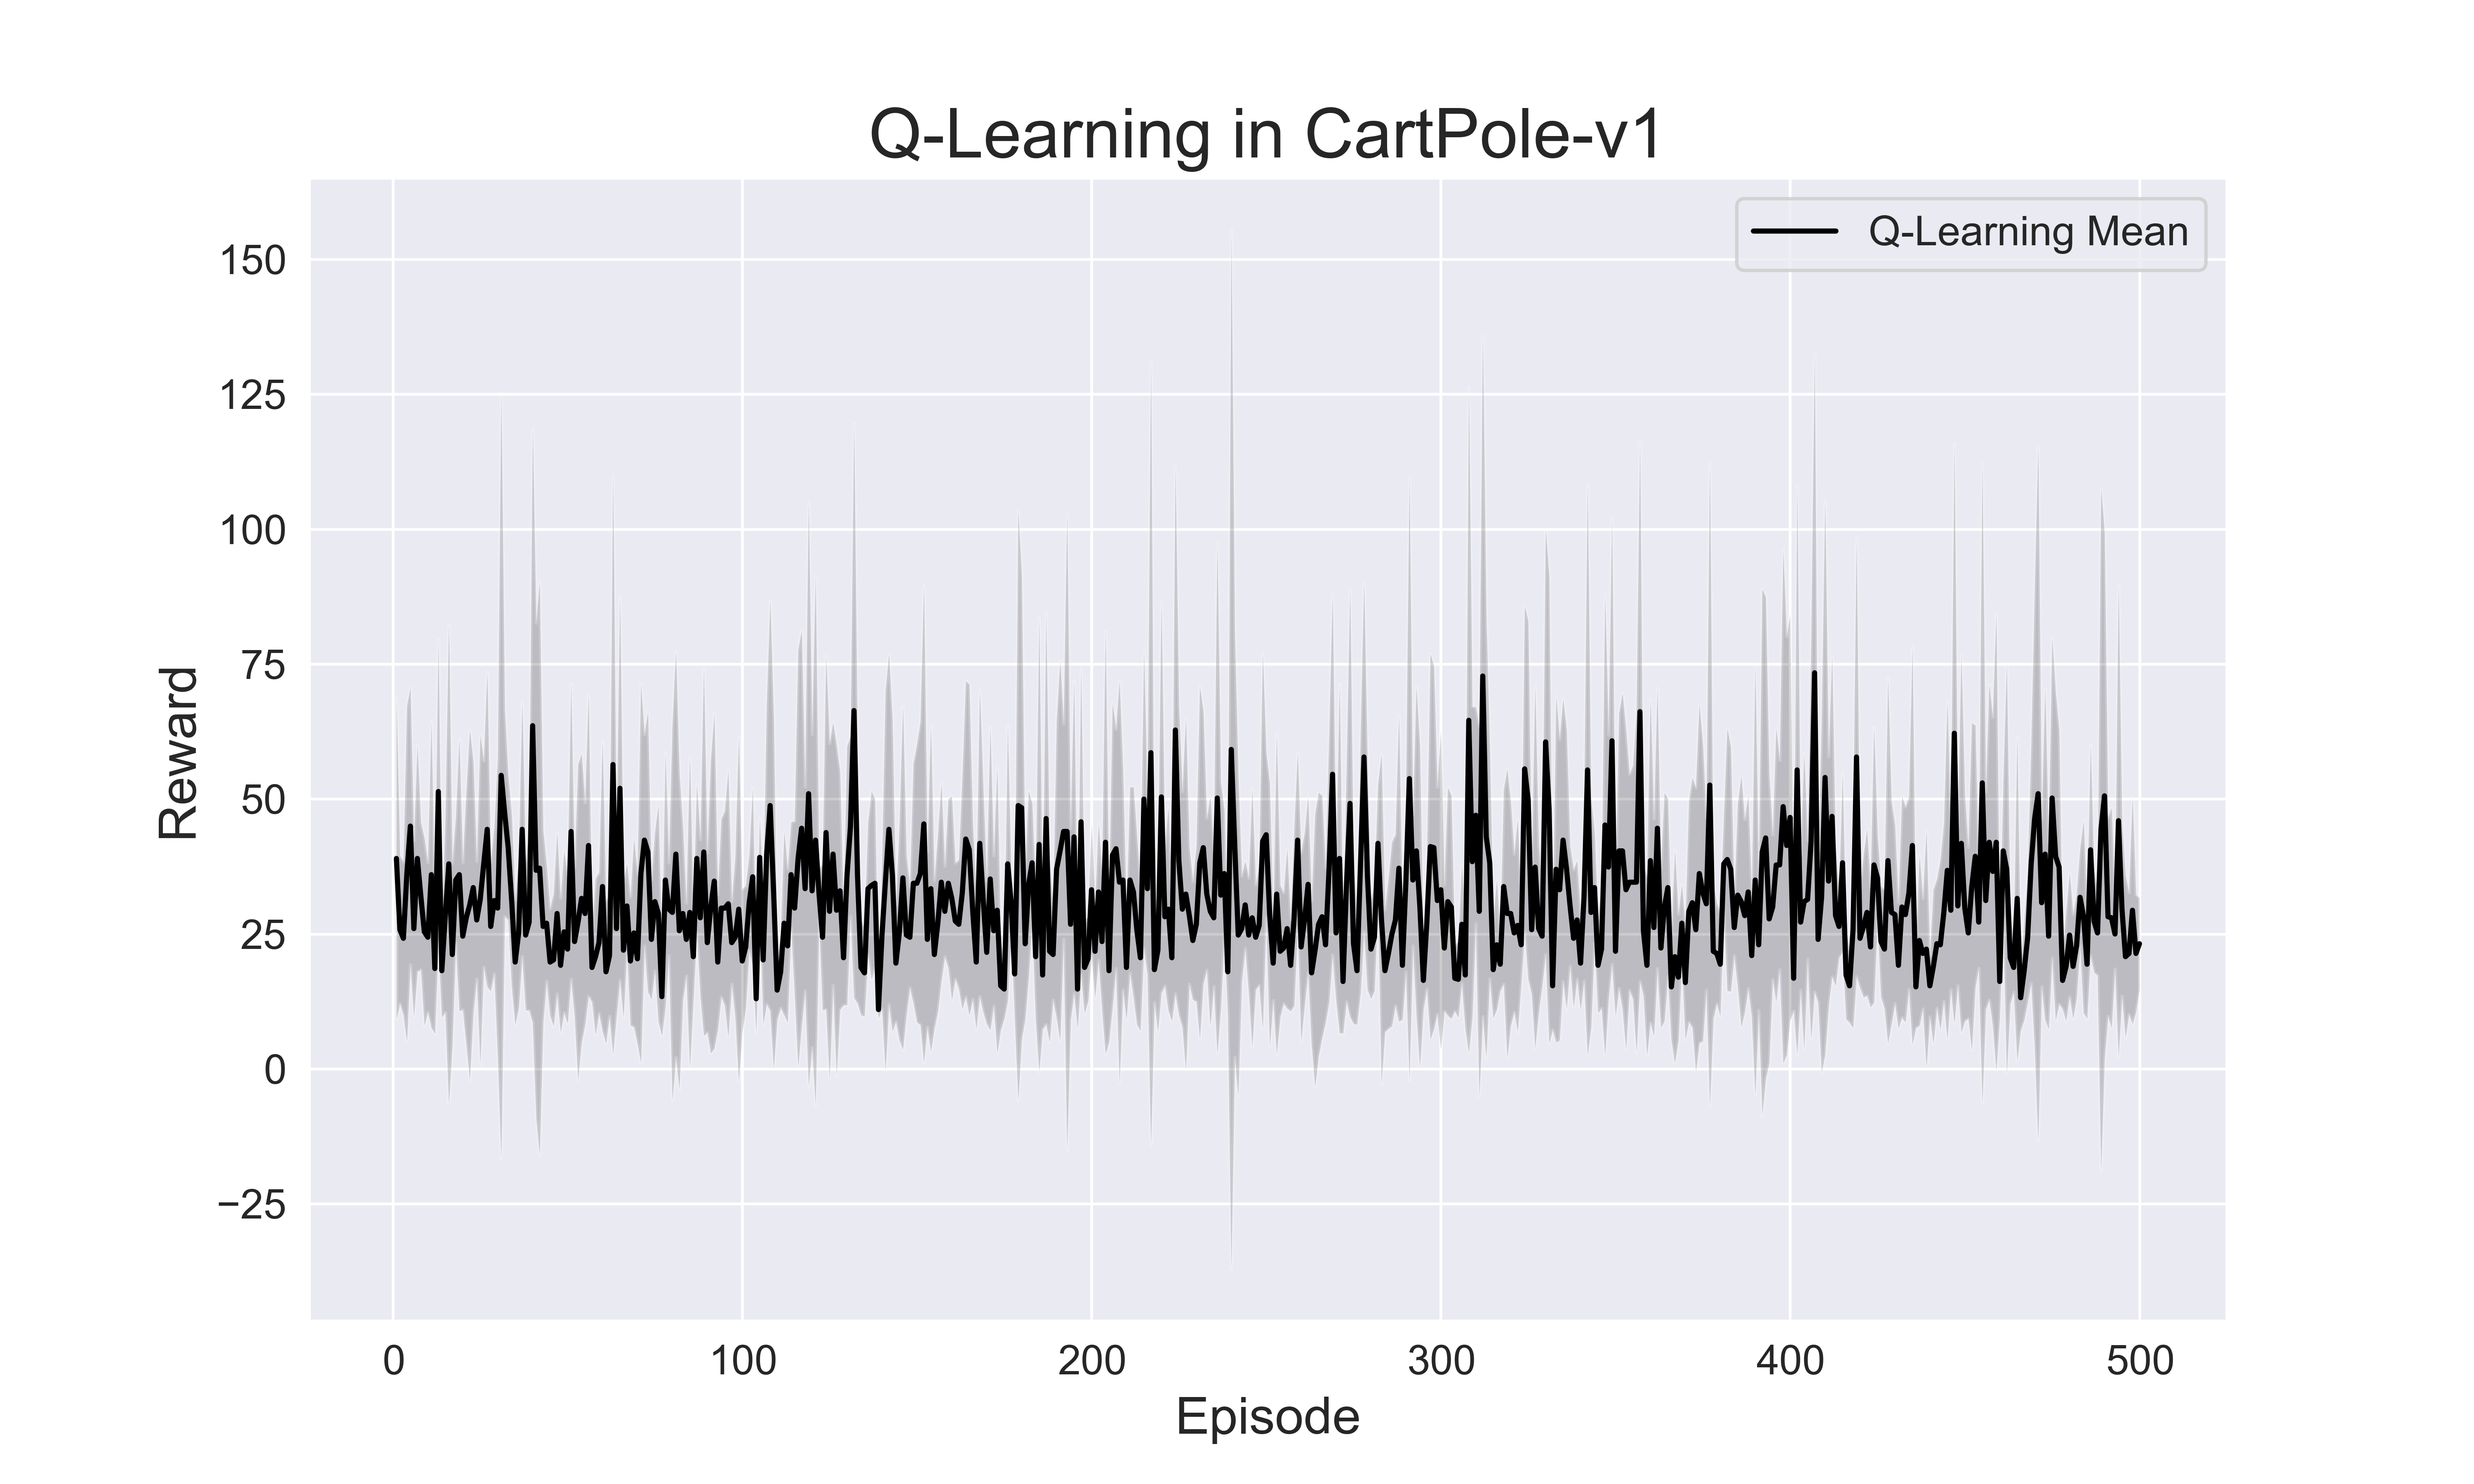
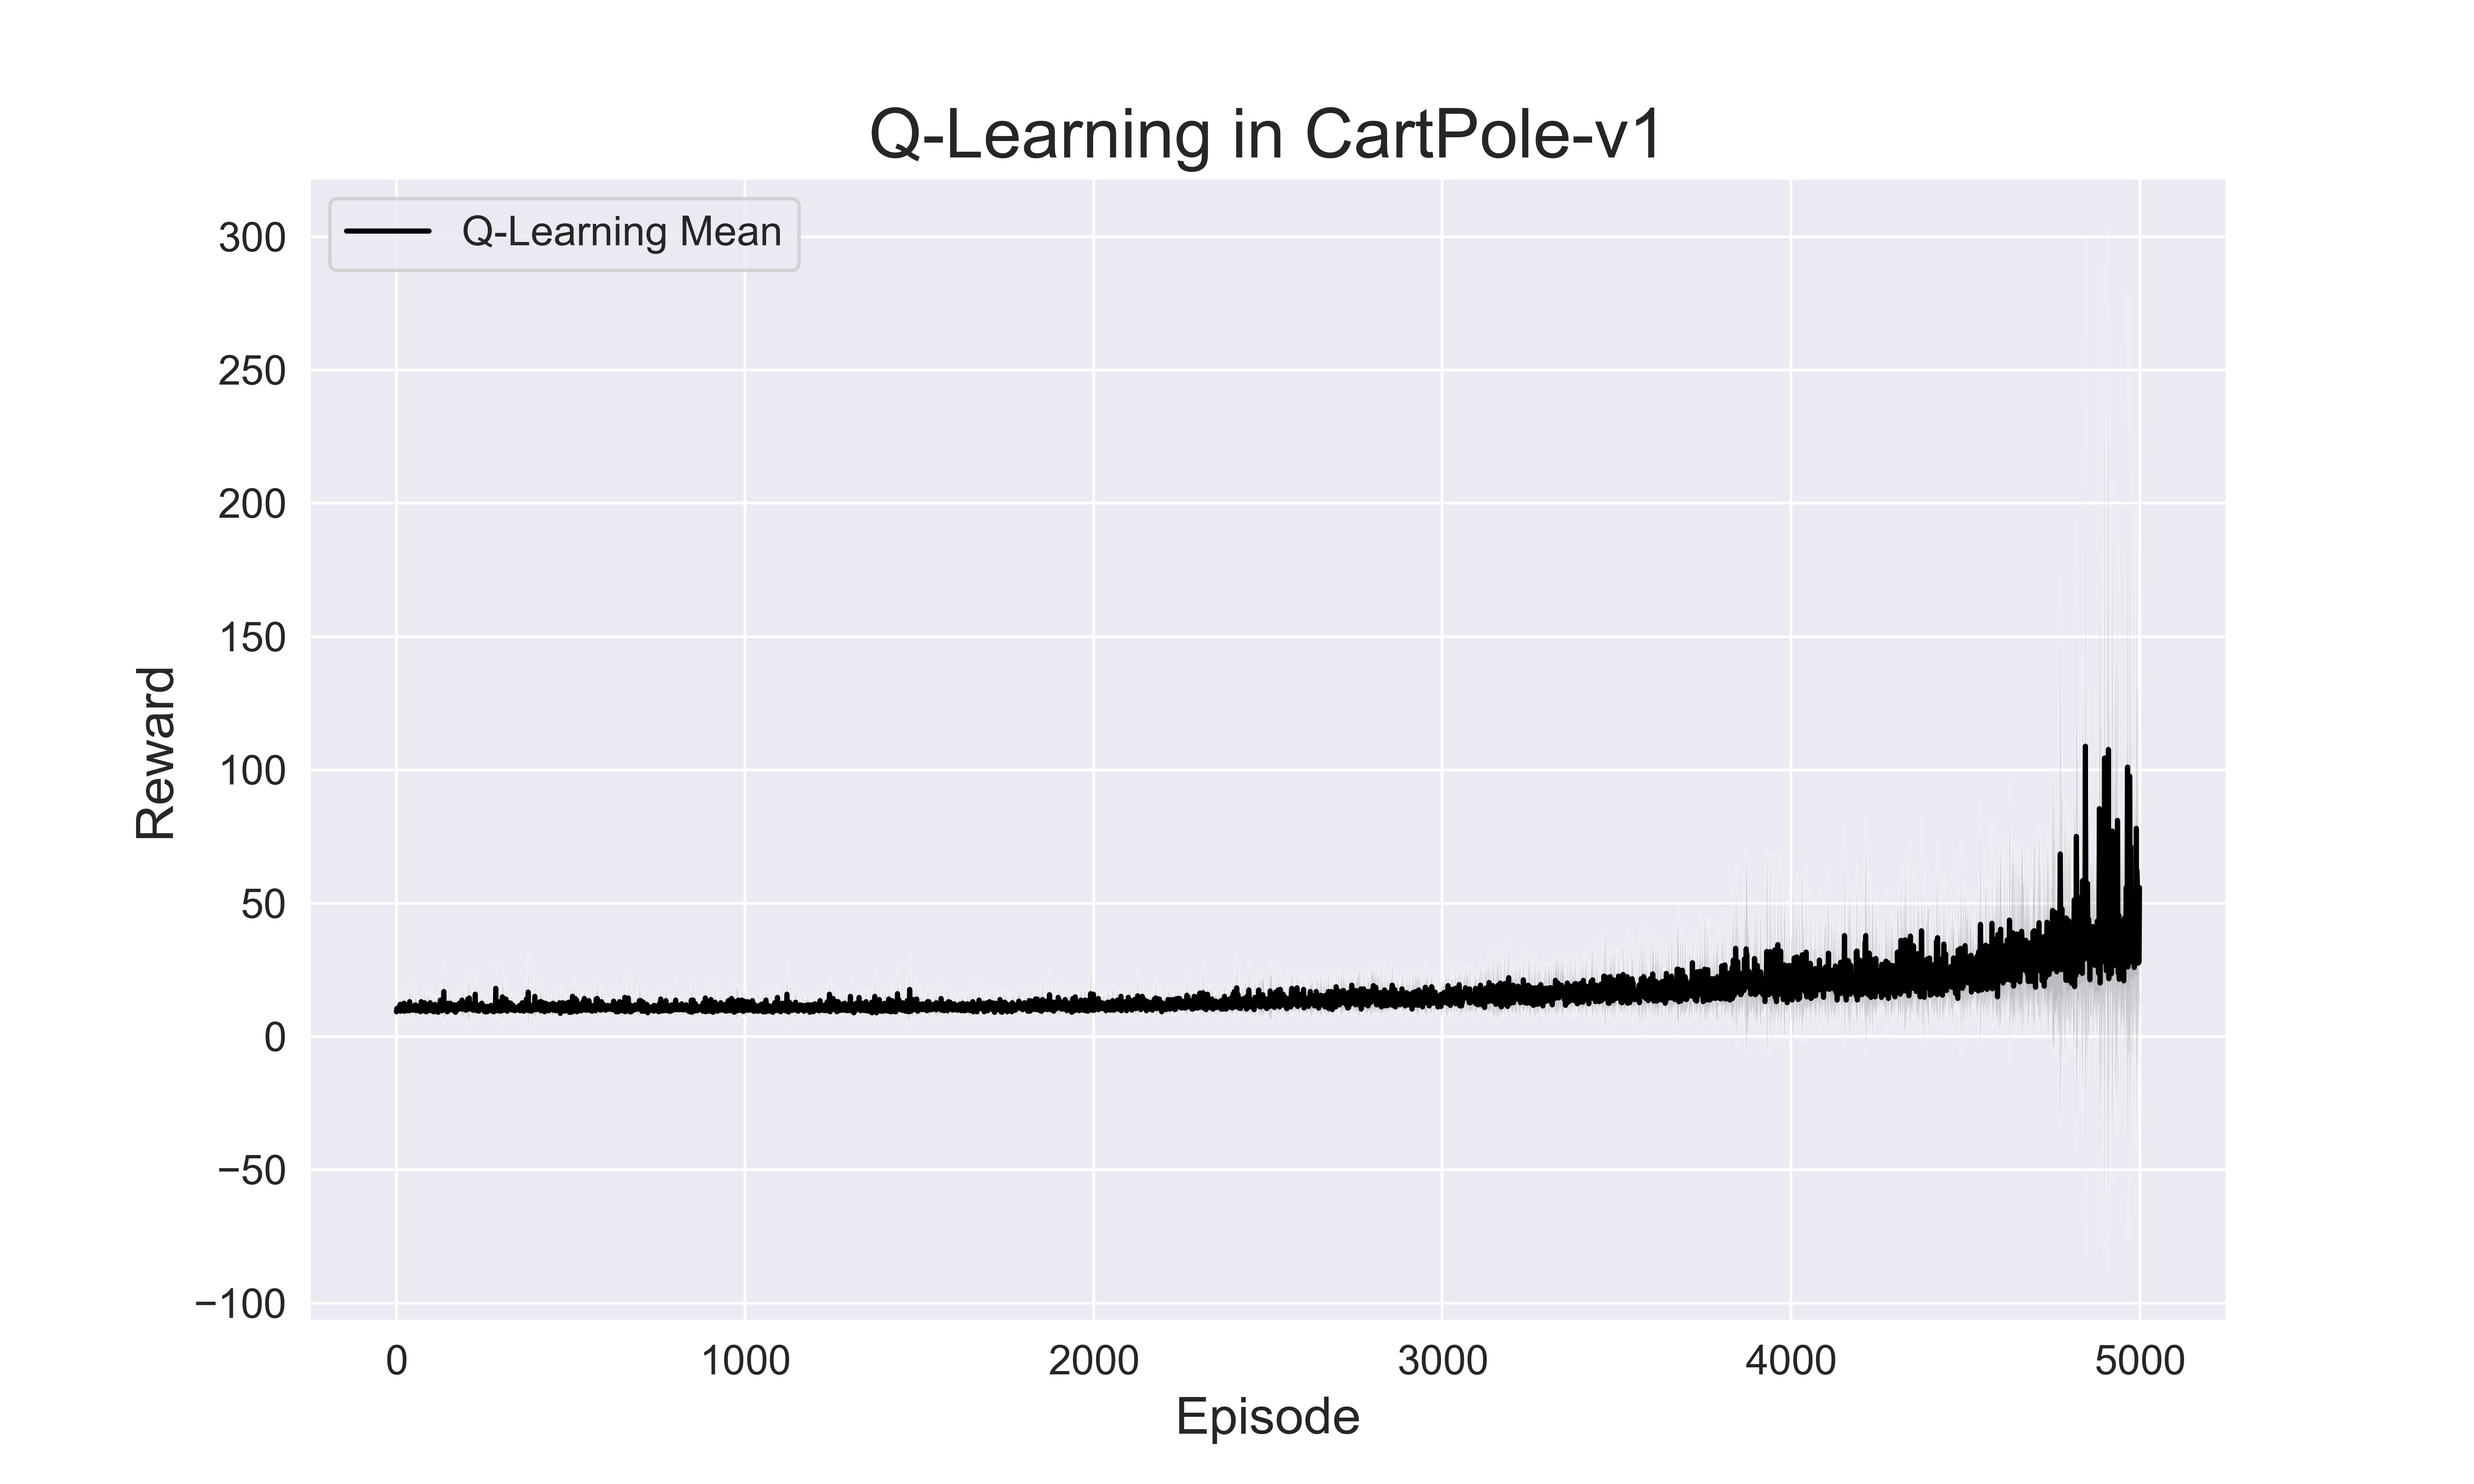
Solved for old version, Cartpole

diff --git a/main.py b/main.py
@@ -41,15 +41,15 @@ def main():
     cartpole_results = run_complete_experiment('CartPole-v1', max_steps=500)
     cartpole_stats = analyze_results(cartpole_results, 'CartPole-v1')
     
-    # Run experiments for MountainCar-v0
-    print("\n=== Starting MountainCar-v0 Experiments ===")
-    mountaincar_results = run_complete_experiment('MountainCar-v0', max_steps=1000)
-    mountaincar_stats = analyze_results(mountaincar_results, 'MountainCar-v0')
+    # # Run experiments for MountainCar-v0
+    # print("\n=== Starting MountainCar-v0 Experiments ===")
+    # mountaincar_results = run_complete_experiment('MountainCar-v0', max_steps=1000)
+    # mountaincar_stats = analyze_results(mountaincar_results, 'MountainCar-v0')
     
-    # Run MiniGrid experiments (Bonus)
-    minigrid_results = run_minigrid_experiments()
-    if minigrid_results:
-        minigrid_stats = analyze_results(minigrid_results, 'MiniGrid-Dynamic-Obstacles-5x5-v0')
+    # # Run MiniGrid experiments (Bonus)
+    # minigrid_results = run_minigrid_experiments()
+    # if minigrid_results:
+    #     minigrid_stats = analyze_results(minigrid_results, 'MiniGrid-Dynamic-Obstacles-5x5-v0')
     
     print("\n=== Experiments Complete ===")
     print("Results saved in the results/ directory.")

diff --git a/src/experiments/run_experiments.py b/src/experiments/run_experiments.py
@@ -128,23 +128,23 @@ def run_complete_experiment(env_name, discount_factor=0.99, max_steps=1000):
     
     # Define hyperparameter search grid for SARSA
     sarsa_param_grid = {
-        'learning_rate': [0.01, 0.05, 0.1, 0.2],
+        'learning_rate': [0.01, 0.1, 0.2],
         'discount_factor': [discount_factor],  # Fixed to 0.99 as recommended
-        'epsilon': [0.01, 0.05, 0.1, 0.2, 0.3]
+        'epsilon': [0.01, 0.1, 0.2]
     }
     
     # Define hyperparameter search grid for Q-Learning
     qlearning_param_grid = {
-        'learning_rate': [0.01, 0.05, 0.1, 0.2],
+        'learning_rate': [0.01, 0.1, 0.2],
         'discount_factor': [discount_factor],  # Fixed to 0.99 as recommended
-        'temperature': [0.1, 0.5, 1.0, 2.0, 5.0]
+        'temperature': [0.1, 1.0, 5.0]
     }
     
     # Number of episodes for grid search (fewer to save time)
-    grid_search_episodes = 100
+    grid_search_episodes = 500
     
     # Number of episodes for final training
-    final_training_episodes = 500
+    final_training_episodes = 5000
     
     print(f"Starting grid search for SARSA on {env_name}...")
     sarsa_results = grid_search(env_name, SARSAAgent, sarsa_param_grid, 

diff --git a/src/agents/base.py b/src/agents/base.py
@@ -19,7 +19,7 @@ class RLAgent:
             self.q_table = np.zeros((self.observation_space.n, self.action_space.n))
         else:
             # For continuous observation spaces, we'll discretize
-            self.bins = 10  # Number of bins for each dimension
+            self.bins = 30  # Number of bins for each dimension
             self.discrete_obs_size = [self.bins] * self.observation_space.shape[0]
             self.q_table = np.zeros((*self.discrete_obs_size, self.action_space.n))
     
@@ -35,9 +35,9 @@ class RLAgent:
                 
                 # Handle edge cases for infinity
                 if low == -np.inf:
-                    low = -10  # Arbitrary value
+                    low = -4  # Arbitrary value
                 if high == np.inf:
-                    high = 10  # Arbitrary value
+                    high = 4  # Arbitrary value
                 
                 scaled_val = int(self.bins * (o - low) / (high - low))
                 scaled_val = min(self.bins - 1, max(0, scaled_val))
